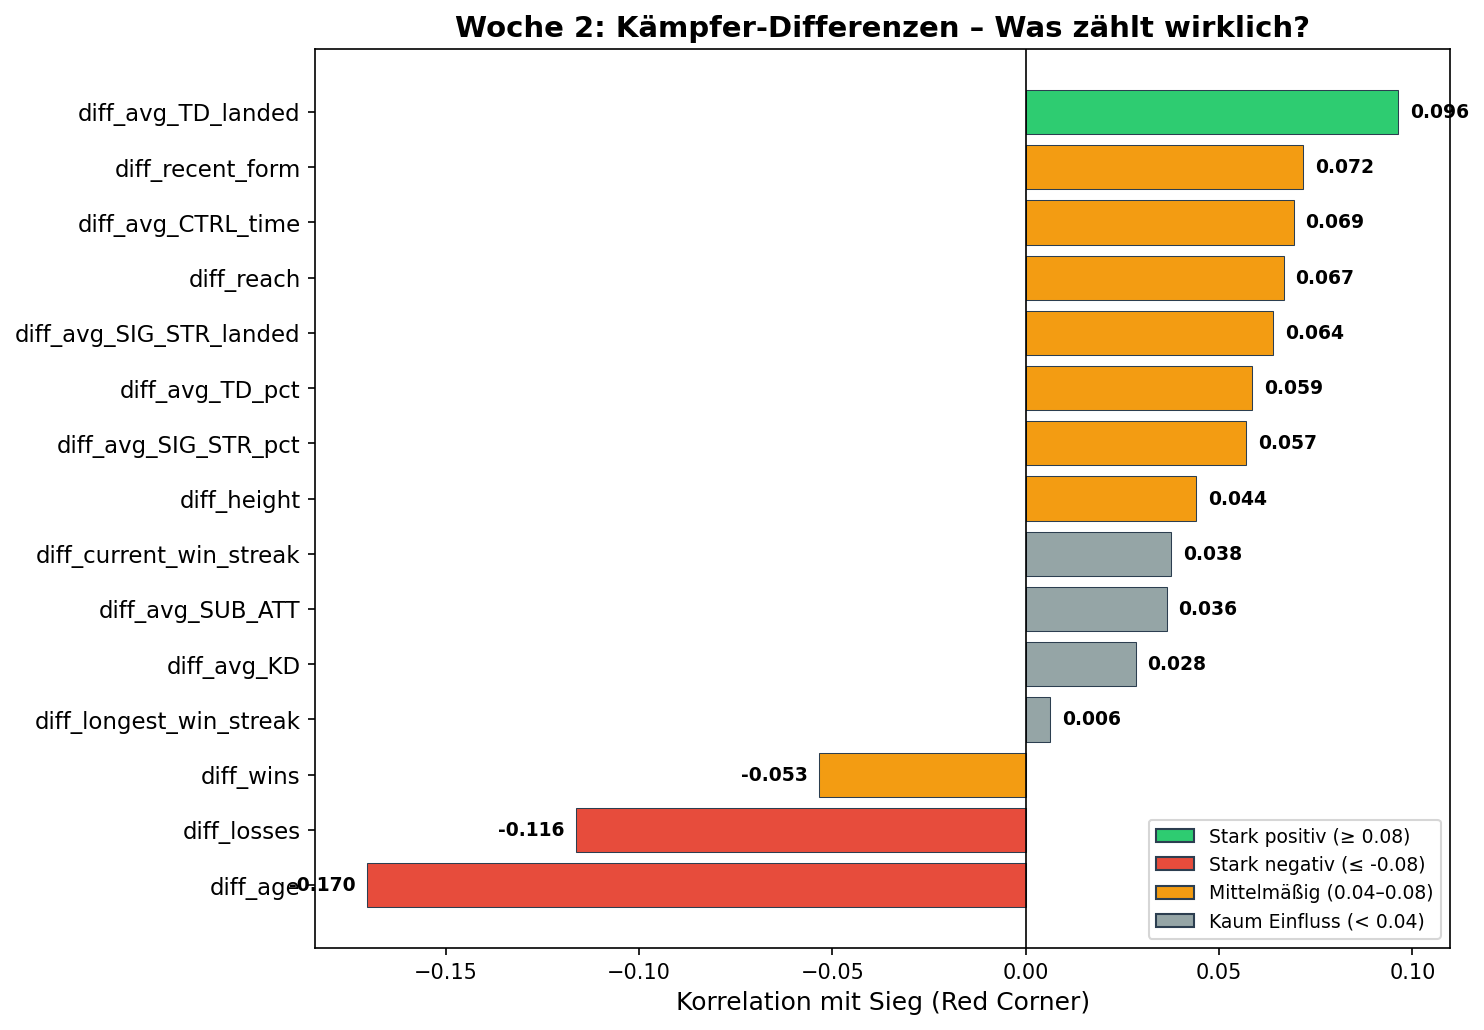
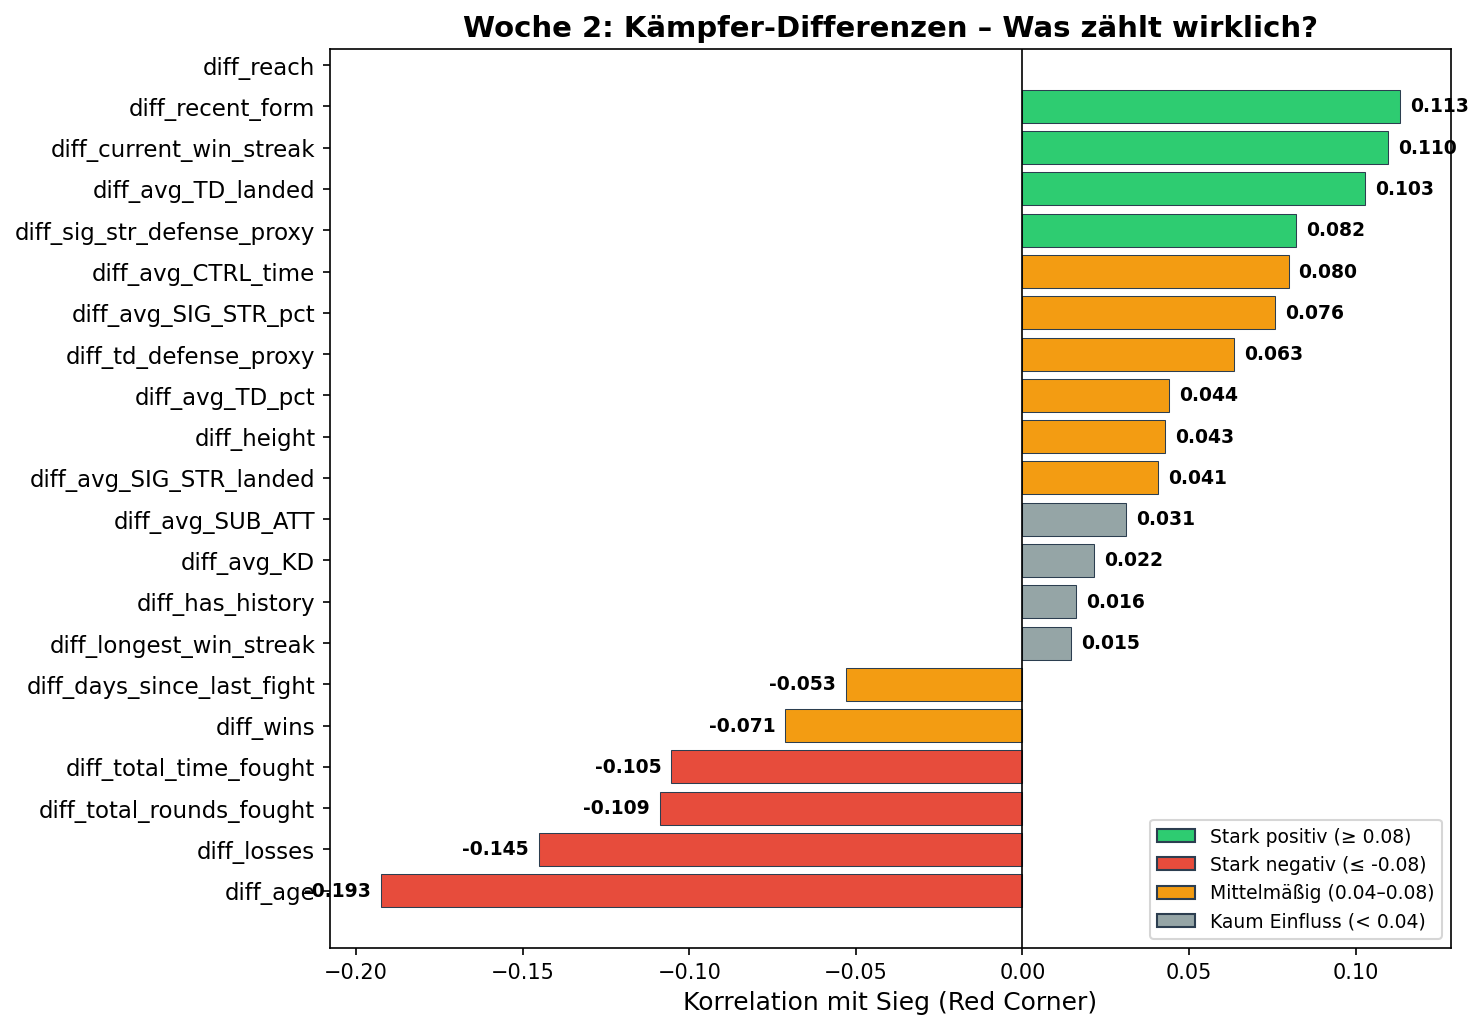
update ka

diff --git a/script/app.py b/script/app.py
@@ -601,8 +601,8 @@ def build_diffs(rs, bs):
 # ─────────────────────────────────────────────────────────────
 def why_explanation(diffs, features, red_name, blue_name, pred, model_name):
     """Zeigt Feature-Beiträge + Textbegründung."""
-    red_advantages  = []
-    blue_advantages = []
+    red_signals  = []
+    blue_signals = []
 
     bars_html = ""
     for feat in features:
@@ -613,10 +613,10 @@ def why_explanation(diffs, features, red_name, blue_name, pred, model_name):
         max_range = max(abs(val), 1)
         pct = min(abs(val) / max_range * 100, 100)
         if val > 0:
-            red_advantages.append(label)
+            red_signals.append(label)
             bar = f'<div class="feat-bar-pos" style="width:{pct}%"></div>'
         elif val < 0:
-            blue_advantages.append(label)
+            blue_signals.append(label)
             bar = f'<div class="feat-bar-neg" style="width:{pct}%"></div>'
         else:
             bar = ""
@@ -635,12 +635,12 @@ def why_explanation(diffs, features, red_name, blue_name, pred, model_name):
     loser_name  = blue_name if pred == 1 else red_name
 
     adv_text = ""
-    if red_advantages:
-        adv_text += f"<b>🔴 {red_name}</b> hat Vorteile in: {', '.join(red_advantages[:4])}. "
-    if blue_advantages:
-        adv_text += f"<b>🔵 {blue_name}</b> hat Vorteile in: {', '.join(blue_advantages[:4])}. "
+    if red_signals:
+        adv_text += f"<b>🔴 {red_name}</b> wird im Modell eher gestützt durch: {', '.join(red_signals[:4])}. "
+    if blue_signals:
+        adv_text += f"<b>🔵 {blue_name}</b> wird im Modell eher gestützt durch: {', '.join(blue_signals[:4])}. "
 
-    adv_feats = red_advantages if pred == 1 else blue_advantages
+    adv_feats = red_signals if pred == 1 else blue_signals
     feat_list = ', '.join(adv_feats[:3]) if adv_feats else 'k.A.'
 
     html = (
@@ -649,11 +649,12 @@ def why_explanation(diffs, features, red_name, blue_name, pred, model_name):
         f'🧠 Warum entschied das Modell für {winner_name}?</div>'
         f'<p style="margin-bottom:10px;">'
         f'Das <b>{model_name}</b> bewertet die Differenz aller Features (Rot minus Blau). '
-        f'Positive Werte (🔴) begünstigen <b>{red_name}</b>, negative (🔵) <b>{blue_name}</b>.</p>'
+        f'Positive Werte (🔴) sprechen im Modell eher für <b>{red_name}</b>, negative (🔵) eher für <b>{blue_name}</b>. '
+        f'Das ist keine allgemeine Aussage wie "älter ist besser", sondern nur die Richtung, die das Modell aus historischen Daten gelernt hat.</p>'
         f'{bars_html}'
         f'<p style="margin-top:12px;">{adv_text}</p>'
         f'<p>Das Modell tippt auf <b>{winner_name}</b>, weil dieser Kämpfer in den entscheidenden '
-        f'Features (<i>{feat_list}</i>) klare Vorteile zeigt, '
+        f'Features (<i>{feat_list}</i>) die stärkeren modellseitigen Signale zeigt, '
         f'die historisch am stärksten mit einem Sieg korrelieren.</p>'
         '</div>'
     )

diff --git a/script/visualisierung.py b/script/visualisierung.py
@@ -117,4 +117,50 @@ plt.tight_layout()
 plt.savefig("../data/form_streaks_heatmap.png", dpi=150, bbox_inches='tight')
 print("✅ Chart 3 gespeichert: data/form_streaks_heatmap.png")
 
-print("\n📊 Alle 3 Visualisierungen gespeichert in /data/!")
+# ========================================================
+# CHART 4: Das Alters-Paradoxon
+# ========================================================
+try:
+    fig4, ax4 = plt.subplots(figsize=(10, 6))
+    
+    # Gruppiere nach gerundetem Altersunterschied und berechne die Siegwahrscheinlichkeit
+    df_age = df.copy()
+    df_age['diff_age_rounded'] = df_age['diff_age'].round()
+    age_prob = df_age.groupby('diff_age_rounded')['target'].agg(['mean', 'count']).reset_index()
+    
+    # Filtere extreme Ausreißer (z.B. Altersunterschiede mit weniger als 15 Kämpfen)
+    age_prob = age_prob[age_prob['count'] >= 15]
+    
+    # Bubble Chart (Größe der Blase = Anzahl der Kämpfe)
+    scatter = ax4.scatter(age_prob['diff_age_rounded'], age_prob['mean']*100, 
+                          color='#3498db', s=age_prob['count']*0.8, alpha=0.7, 
+                          edgecolor='white', linewidth=0.5,
+                          label='Win % bei exakt X Jahren Unterschied (Größe = Sample Size)')
+    
+    # Polynomische Trendlinie (Grad 3 für glattere Kurve statt harter gerader Linie)
+    z = np.polyfit(age_prob['diff_age_rounded'], age_prob['mean']*100, 3)
+    p = np.poly1d(z)
+    x_smooth = np.linspace(age_prob['diff_age_rounded'].min(), age_prob['diff_age_rounded'].max(), 100)
+    ax4.plot(x_smooth, p(x_smooth), color='#e74c3c', linewidth=2.5, label='Trend (Polynomisch)')
+    
+    ax4.axvline(x=0, color='#2c3e50', linewidth=1.5, linestyle='-')
+    ax4.axhline(y=50, color='gray', linewidth=1, linestyle='--', alpha=0.8)
+    
+    ax4.set_xlabel('Altersunterschied in Jahren (Positiv = Roter Kämpfer ist älter)', fontsize=12)
+    ax4.set_ylabel('Siegwahrscheinlichkeit (Rote Ecke) in %', fontsize=12)
+    ax4.set_title('Das Alters-Paradoxon: MMA ist "A Young Man\'s Game"', fontsize=14, fontweight='bold')
+    
+    # Text-Annotationen zur Erklärung
+    ax4.text(-8, 65, 'Rot ist jünger\nhöhere Gewinnchance!', fontsize=10, color='#2ecc71', fontweight='bold', ha='center', bbox=dict(facecolor='white', alpha=0.8, edgecolor='#2ecc71'))
+    ax4.text(8, 35, 'Rot ist älter\ngeringere Gewinnchance!', fontsize=10, color='#e74c3c', fontweight='bold', ha='center', bbox=dict(facecolor='white', alpha=0.8, edgecolor='#e74c3c'))
+    
+    ax4.legend(loc='lower left')
+    ax4.grid(True, alpha=0.3)
+    
+    plt.tight_layout()
+    plt.savefig("../data/alters_paradoxon.png", dpi=150, bbox_inches='tight')
+    print("✅ Chart 4 gespeichert: data/alters_paradoxon.png")
+except Exception as e:
+    print(f"❌ Fehler bei Chart 4: {e}")
+
+print("\n📊 Alle 4 Visualisierungen gespeichert in /data/!")
